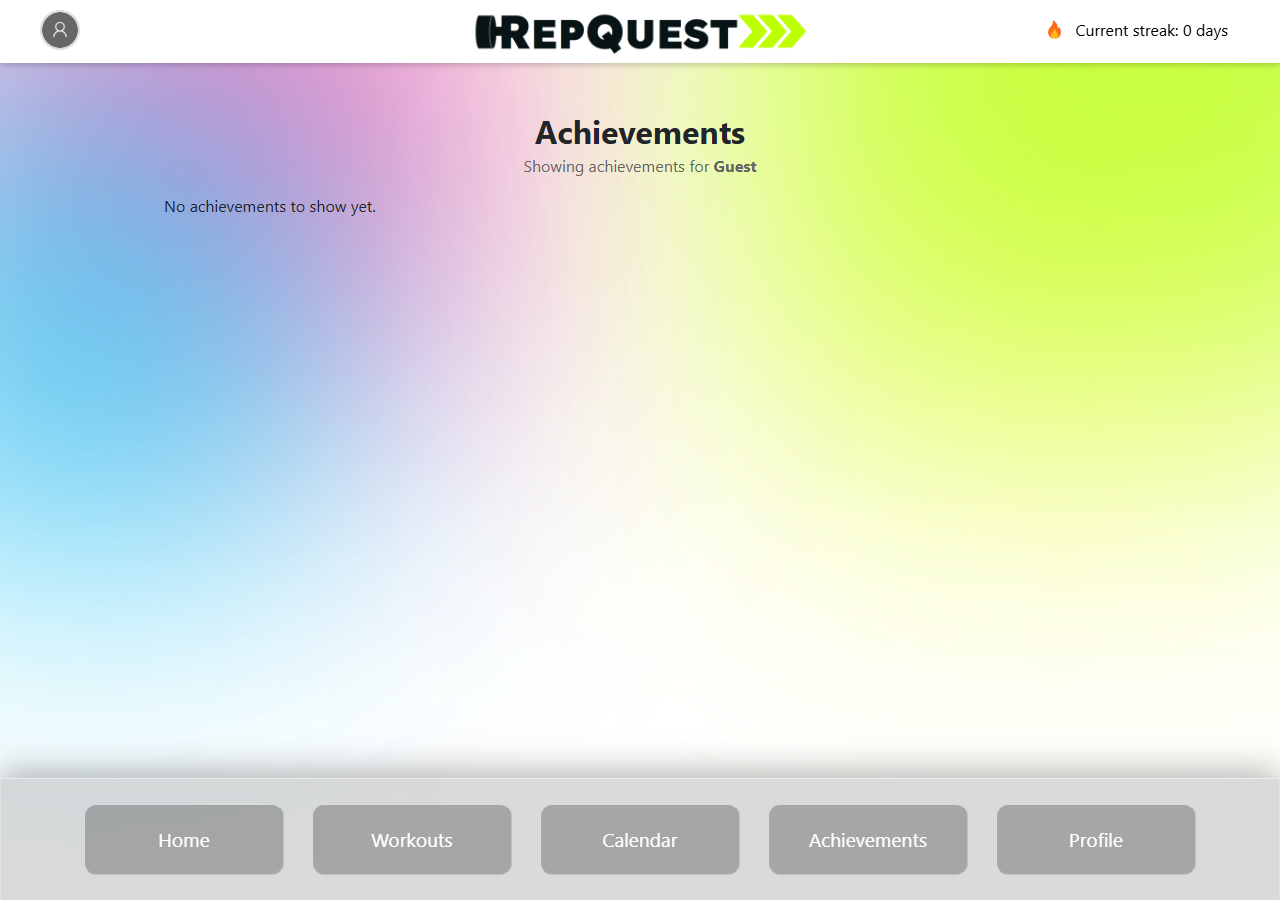
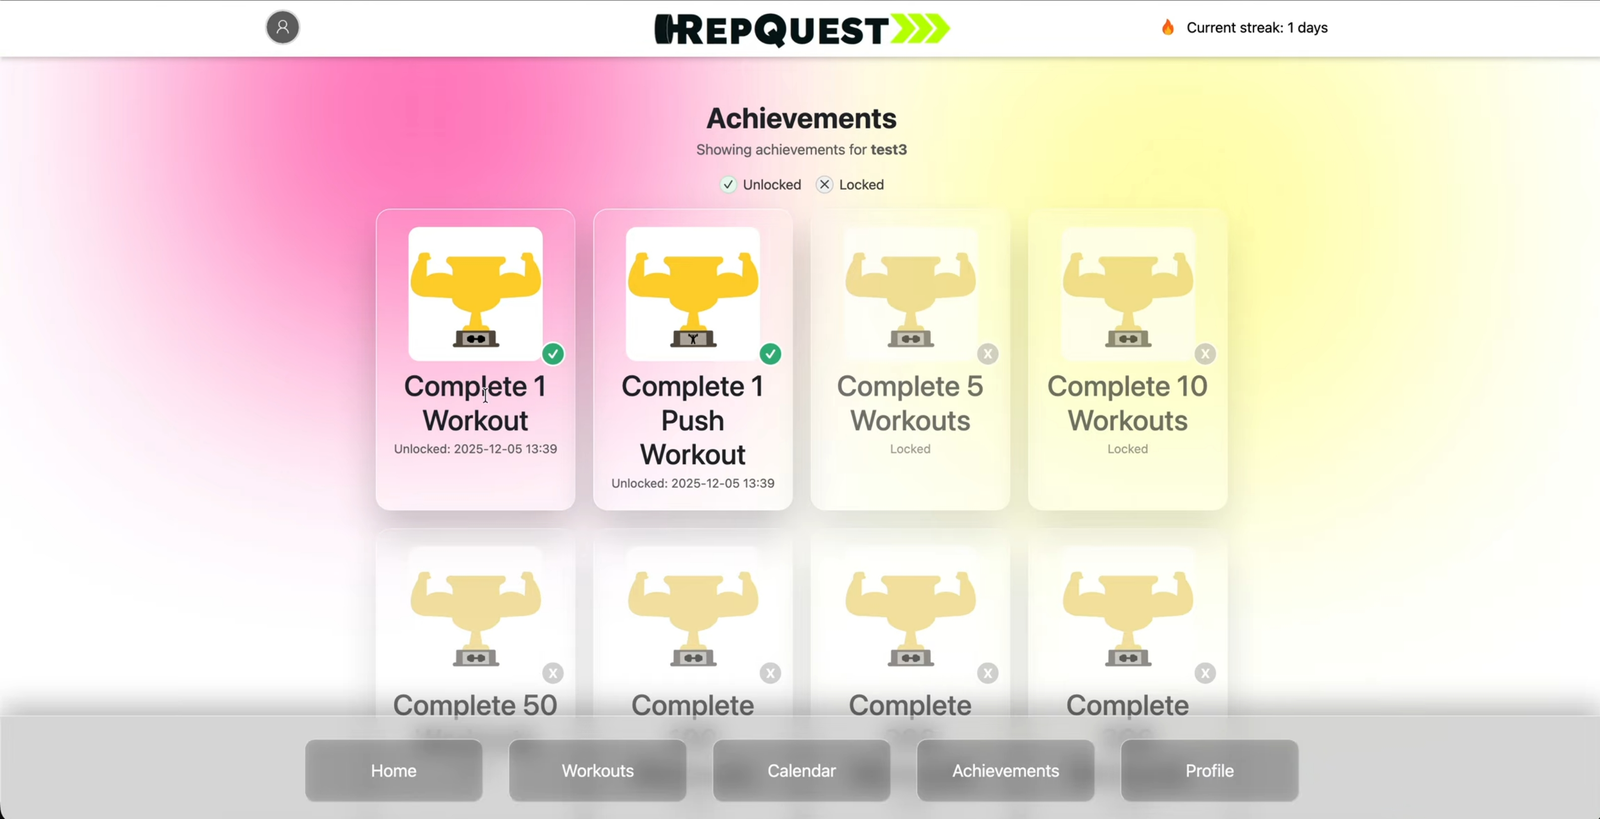
Add RepQuest screenshots, center streak comparison, reword RepQuest copy
- Add real achievements/profile screenshots and a cropped header streak
  counter shot; reorder Profile before Streak and center the streak
  comparison's final image in its box
- Rewrite RepQuest's hero/role/problem/visual-design/reflection copy and
  wireframe-vs-final captions per updated wording

diff --git a/repquest.html b/repquest.html
@@ -11,7 +11,7 @@
 <link rel="preconnect" href="https://fonts.googleapis.com">
 <link rel="preconnect" href="https://fonts.gstatic.com" crossorigin>
 <link href="https://fonts.googleapis.com/css2?family=Newsreader:opsz,wght@6..72,300;6..72,400;6..72,500&family=Jost:wght@400;500&family=Work+Sans:wght@400;500&display=swap" rel="stylesheet">
-<link rel="stylesheet" href="style.css?v=47">
+<link rel="stylesheet" href="style.css?v=52">
 </head>
 <body>
 
@@ -33,7 +33,7 @@
     <a href="index.html#work" class="back-link">← Back to work</a>
     <p class="eyebrow">Team Project · 5</p>
     <h1>RepQuest</h1>
-    <p class="project-hero-desc">A gamified workout tracker — structured routines, streaks, and unlockable achievements that turn consistency into a game.</p>
+    <p class="project-hero-desc">A gamified workout tracker with structured routines, streaks, and unlockable achievements that turn the consistency of going to the gym into a game.</p>
     <div class="project-hero-links">
       <a href="https://group-project-buffbuffs-repquest.onrender.com" target="_blank" rel="noopener" class="btn btn-primary">Live app ↗</a>
       <a href="https://github.com/CU-CSCI3308-Fall2025/group-project-BuffBuffs-RepQuest" target="_blank" rel="noopener" class="btn btn-ghost">Repo ↗</a>
@@ -60,9 +60,9 @@
       <h2>What I worked on</h2>
     </div>
     <ul class="role-list">
-      <li><strong>Wireframing &amp; UX Design</strong> — Sketched wireframes for all 6 core screens; designed the gamified home-page pathway, iconography, and locked/unlocked state system.</li>
-      <li><strong>Frontend Development</strong> — Templated views in Handlebars; built the Profile page end-to-end, including image upload.</li>
-      <li><strong>Testing &amp; QA</strong> — Paired on Mocha/Chai unit tests for login; wrote UAT cases for error-state handling.</li>
+      <li><strong>Wireframing &amp; UX Design</strong> — Sketched wireframes for all 6 core parts and worked with scrum master to align wireframes with our UML; designed the gamified home-page pathway, iconography, and locked/unlocked state system.</li>
+      <li><strong>Frontend Development</strong> — Templated views in Handlebars; built the Profile page end-to-end, including profile image upload and a profile image backlog.</li>
+      <li><strong>Testing &amp; QA</strong> — Worked with another team member on Mocha/Chai unit tests for login; wrote UAT cases for error-state handling.</li>
       <li><strong>Agile / Scrum</strong> — Tracked work as user stories with story points; ran weekly sprint check-ins with the team and TA.</li>
       <li><strong>Visual Polish</strong> — Led a final UI consistency pass across every page.</li>
     </ul>
@@ -74,12 +74,12 @@
       <h2>Why this app</h2>
     </div>
     <div class="prose">
-      <p>Most fitness apps are built for people who already work out. RepQuest is built for people who don't yet, but want to — our target user is a college student in their late teens or early twenties who's never managed to stick with a gym routine before: motivated in theory, easily discouraged in practice by apps that feel like spreadsheets or gyms that feel unapproachable. Our team's vision statement put it plainly: turn fitness tracking into something closer to a game than a chore, so showing up starts to feel like progress instead of an obligation.</p>
+      <p>Most fitness apps are built for people who already work out. RepQuest is built for people who want to get started, and want something to hold them accountable. Our target user is a college student in their late teens or early twenties who's never managed to stick with a gym routine before: motivated in theory, easily discouraged in practice by lacking methods to keep them on-track or gyms that feel unapproachable. Our team's vision statement put it plainly: a way to turn fitness tracking into something closer to a game than a chore, so showing up starts to feel like progress instead of an obligation.</p>
     </div>
     <ul class="role-list">
-      <li><strong>Gamified Progression</strong> — A winding path of levels to climb, not a flat history list.</li>
-      <li><strong>Daily Streaks</strong> — Visible momentum that rewards showing up, not just logging data.</li>
-      <li><strong>Unlockable Achievements</strong> — Badges tied to real milestones: total workouts, muscle group, streak length.</li>
+      <li><strong>Gamified Progression</strong> — A winding path of levels to climb, that's meant to encourage a habit with visual progress.</li>
+      <li><strong>Daily Streaks</strong> — Visual proof of consistency, which provides a metric that's meant to motivate users to keep going.</li>
+      <li><strong>Unlockable Achievements</strong> — Badges tied to real milestones within various different categories: total workouts, muscle group, streak length.</li>
       <li><strong>Low-Friction Onboarding</strong> — Clean UI, simple navigation, and legible type so first-timers aren't intimidated before they even start.</li>
     </ul>
   </section>
@@ -96,7 +96,7 @@
         <figure><span class="compare-label">Wireframe</span><img src="img/repquest/wireframe-home.jpg" alt="Hand-drawn wireframe of the RepQuest home page, showing a winding path of five workout levels between the header and the bottom nav."></figure>
         <figure><span class="compare-label">Final</span><img src="img/repquest/final-home.png" alt="Screenshot of the live RepQuest home page, showing the same winding workout path with real level icons on a gradient background."></figure>
       </div>
-      <p class="compare-caption">Shipped almost exactly as sketched. Hamburger menu → home icon; streak page → header counter.</p>
+      <p class="compare-caption">Shipped almost exactly as sketched. Only changes were: Hamburger menu → home icon; streak page fully scrapped → header streak counter.</p>
     </div>
 
     <div class="compare-block">
@@ -105,7 +105,7 @@
         <figure><span class="compare-label">Wireframe</span><img src="img/repquest/wireframe-calendar.jpg" alt="Hand-drawn wireframe of the RepQuest calendar page, a seven-day week grid with a details line under each day."></figure>
         <figure><span class="compare-label">Final</span><img src="img/repquest/final-calendar.png" alt="Screenshot of the live RepQuest calendar page, showing a seven-day week with each day's assigned workout type."></figure>
       </div>
-      <p class="compare-caption">Same 7-day layout, now driven by real dates and push/pull/legs/rest data.</p>
+      <p class="compare-caption">Same 7-day layout, now has real-time dates and push/pull/legs/rest data.</p>
     </div>
 
     <div class="compare-block">
@@ -121,18 +121,27 @@
       <p class="compare-heading">Achievements</p>
       <div class="compare-pair wireframe-compare">
         <figure><span class="compare-label">Wireframe</span><img src="img/repquest/wireframe-achievements.jpg" alt="Hand-drawn wireframe of the RepQuest achievements page, a 3-by-2 grid of empty badge placeholders."></figure>
-        <figure><span class="compare-label">Final</span><img src="img/repquest/final-achievements.png" alt="Screenshot of the live RepQuest achievements page for a guest account, reading 'No achievements to show yet.'"></figure>
+        <figure><span class="compare-label">Final</span><img src="img/repquest/final-achievements.png" alt="Screenshot of the live RepQuest achievements page, showing two unlocked workout badges alongside locked ones still greyed out."></figure>
       </div>
-      <p class="compare-caption">Fully personalized, trigger-driven badge system — this guest account just hasn't unlocked any yet.</p>
+      <p class="compare-caption">Fully personalized, trigger-driven badge system — unlocked badges light up in color, with the date earned.</p>
     </div>
 
     <div class="compare-block">
-      <p class="compare-heading">Streak &amp; Profile</p>
+      <p class="compare-heading">Profile</p>
       <div class="compare-pair wireframe-compare">
-        <figure><span class="compare-label">Wireframe</span><img src="img/repquest/wireframe-streak.jpg" alt="Hand-drawn wireframe of a dedicated RepQuest streak page, with a flame icon and day count."></figure>
         <figure><span class="compare-label">Wireframe</span><img src="img/repquest/wireframe-profile.jpg" alt="Hand-drawn wireframe of the RepQuest profile page, with a side menu and a large information panel."></figure>
+        <figure><span class="compare-label">Final</span><img src="img/repquest/final-profile.png" alt="Screenshot of the live RepQuest profile page, with a profile picture, username, Change Profile Picture button, and Log Out button."></figure>
       </div>
-      <p class="compare-caption">Streak folded into the header counter. Profile (built by me, incl. picture upload) needs a real login to view.</p>
+      <p class="compare-caption">Built by me end-to-end, including the profile picture upload and a saved profile picture backlog.</p>
+    </div>
+
+    <div class="compare-block">
+      <p class="compare-heading">Streak</p>
+      <div class="compare-pair streak-compare">
+        <figure><span class="compare-label">Wireframe</span><img src="img/repquest/wireframe-streak.jpg" alt="Hand-drawn wireframe of a dedicated RepQuest streak page, with a flame icon and day count."></figure>
+        <figure><span class="compare-label">Final</span><img src="img/repquest/final-streak.png" alt="Screenshot of the live streak counter folded into the app header, reading a flame icon and 'Current streak: 1 days'."></figure>
+      </div>
+      <p class="compare-caption">Originally planned as its own page and ended up embedded in the header as a counter instead, since the flame + day count said enough on its own.</p>
     </div>
   </section>
 
@@ -143,13 +152,12 @@
         <h2>Designing the visual language</h2>
       </div>
       <div class="prose">
-        <p>Most of my day-to-day work here was visual design — deciding what a piece of state should look like before anyone touched a database.</p>
+        <p>Most of my day-to-day work on this project was visual design. I decided most of what a piece of state should look like before anything was properly implemented.</p>
       </div>
       <ul class="role-list">
-        <li><strong>Color-Coded States</strong> — Gray = locked, green = unlocked. No text required.</li>
+        <li><strong>Color-Coded States</strong> — Gray = locked, green = unlocked. A simple way to track progress visually.</li>
         <li><strong>Custom Iconography</strong> — One icon per workout type (push/pull/legs/rest), reused consistently across the path, workouts, and achievements.</li>
-        <li><strong>Gamification Pattern</strong> — A Duolingo-style winding path instead of a flat history list.</li>
-        <li><strong>Design System</strong> — One consistent visual language, not each screen inventing its own.</li>
+        <li><strong>Design System</strong> — One consistent visual language, making sure that a theme was maintained throughout.</li>
       </ul>
     </div>
 
@@ -198,10 +206,10 @@
       <h2>Challenges &amp; what I learned</h2>
     </div>
     <div class="prose">
-      <p>Extra-credit risk analysis, and what actually mattered once we were building:</p>
+      <p>For a 4 week long project, our team did a great job staying on track, and creating something we could be proud of. Besides that, there were some things we ran into and learned from:</p>
     </div>
     <ul class="role-list">
-      <li><strong>Responsive Design</strong> — Mobile-first mindset for a mobile-heavy audience.</li>
+      <li><strong>Responsive Design</strong> — Learning how to translate an app-style design onto a website. Our idea going into the project was that if we were to build on this project in the future, it would become a complete application. Obviously that did not happen, so we attempted mobile-driven design choices for a website instead.</li>
       <li><strong>Scope Management</strong> — Sized sprints against real availability, not wishful thinking.</li>
       <li><strong>Security Awareness</strong> — Flagged auth/DB risk early. (The real failure, months later: a free-tier expiration, not a breach.)</li>
       <li><strong>QA</strong> — Wrote UAT cases for error-state handling across onboarding, calendar, and home.</li>
@@ -214,6 +222,6 @@
   <p>Alexandra Palermo © 2026</p>
 </footer>
 
-<script src="script.js?v=47"></script>
+<script src="script.js?v=52"></script>
 </body>
 </html>

diff --git a/index.html b/index.html
@@ -11,7 +11,7 @@
 <link rel="preconnect" href="https://fonts.googleapis.com">
 <link rel="preconnect" href="https://fonts.gstatic.com" crossorigin>
 <link href="https://fonts.googleapis.com/css2?family=Newsreader:opsz,wght@6..72,300;6..72,400;6..72,500&family=Jost:wght@400;500&family=Work+Sans:wght@400;500&display=swap" rel="stylesheet">
-<link rel="stylesheet" href="style.css?v=47">
+<link rel="stylesheet" href="style.css?v=52">
 </head>
 <body>
 
@@ -62,7 +62,7 @@
         <div class="project-screen">
           <span class="crt-knob" aria-hidden="true"></span>
           <h3><a href="repquest.html">RepQuest</a></h3>
-          <p class="project-desc">A fitness app built to make a beginner's first weeks in the gym feel approachable instead of overwhelming — structured routines, a weekly workout calendar, and unlockable milestones that turn consistency into something worth celebrating.</p>
+          <p class="project-desc">A fitness focused app designed to help beginners build their confidence in the gym. The app provides structured routines, a weekly workout calendar, and unlockable milestones that help users track their workouts and turn consistency into something worth celebrating.</p>
           <p class="project-role"><span>My role —</span> Frontend-focused: templated the HTML/CSS views in Handlebars and shaped the day-to-day UI, while contributing across the stack on testing, Docker, and the Postgres schema alongside a five-person team.</p>
           <div class="project-links">
             <a href="https://group-project-buffbuffs-repquest.onrender.com" target="_blank" rel="noopener">Live app ↗</a>
@@ -228,6 +228,6 @@
   <p>Alexandra Palermo © 2026</p>
 </footer>
 
-<script src="script.js?v=47"></script>
+<script src="script.js?v=52"></script>
 </body>
 </html>

diff --git a/potion-creation-station.html b/potion-creation-station.html
@@ -11,7 +11,7 @@
 <link rel="preconnect" href="https://fonts.googleapis.com">
 <link rel="preconnect" href="https://fonts.gstatic.com" crossorigin>
 <link href="https://fonts.googleapis.com/css2?family=Newsreader:opsz,wght@6..72,300;6..72,400;6..72,500&family=Jost:wght@400;500&family=Work+Sans:wght@400;500&display=swap" rel="stylesheet">
-<link rel="stylesheet" href="style.css?v=47">
+<link rel="stylesheet" href="style.css?v=52">
 </head>
 <body>
 
@@ -127,6 +127,6 @@ This Potion has been sent into the depths of the archive, never to be found agai
   <p>Alexandra Palermo © 2026</p>
 </footer>
 
-<script src="script.js?v=47"></script>
+<script src="script.js?v=52"></script>
 </body>
 </html>

diff --git a/pride-rock.html b/pride-rock.html
@@ -11,7 +11,7 @@
 <link rel="preconnect" href="https://fonts.googleapis.com">
 <link rel="preconnect" href="https://fonts.gstatic.com" crossorigin>
 <link href="https://fonts.googleapis.com/css2?family=Newsreader:opsz,wght@6..72,300;6..72,400;6..72,500&family=Jost:wght@400;500&family=Work+Sans:wght@400;500&display=swap" rel="stylesheet">
-<link rel="stylesheet" href="style.css?v=47">
+<link rel="stylesheet" href="style.css?v=52">
 </head>
 <body>
 
@@ -126,6 +126,6 @@ Guided by a friendly herd of elephants — Pride Points: 24300 → 25000!</pre>
   <p>Alexandra Palermo © 2026</p>
 </footer>
 
-<script src="script.js?v=47"></script>
+<script src="script.js?v=52"></script>
 </body>
 </html>

diff --git a/safesmart.html b/safesmart.html
@@ -11,7 +11,7 @@
 <link rel="preconnect" href="https://fonts.googleapis.com">
 <link rel="preconnect" href="https://fonts.gstatic.com" crossorigin>
 <link href="https://fonts.googleapis.com/css2?family=Newsreader:opsz,wght@6..72,300;6..72,400;6..72,500&family=Jost:wght@400;500&family=Work+Sans:wght@400;500&display=swap" rel="stylesheet">
-<link rel="stylesheet" href="style.css?v=47">
+<link rel="stylesheet" href="style.css?v=52">
 </head>
 <body>
 
@@ -235,6 +235,6 @@
   <p>Alexandra Palermo © 2026</p>
 </footer>
 
-<script src="script.js?v=47"></script>
+<script src="script.js?v=52"></script>
 </body>
 </html>

diff --git a/style.css b/style.css
@@ -858,6 +858,13 @@ img { max-width: 100%; display: block; }
   border-color: var(--line-dark);
 }
 
+/* RepQuest's Streak final shot is a tiny header snippet next to a
+   full-height wireframe — center it in its box instead of letting it
+   sit stuck to the top. */
+.streak-compare figure {
+  justify-content: center;
+}
+
 /* SafeSmart's two storyboard panel-pairs: each pair's own two sketches
    have close-but-not-identical native ratios, so match them to each
    other specifically (not to the 4:3 used for RepQuest above) */
